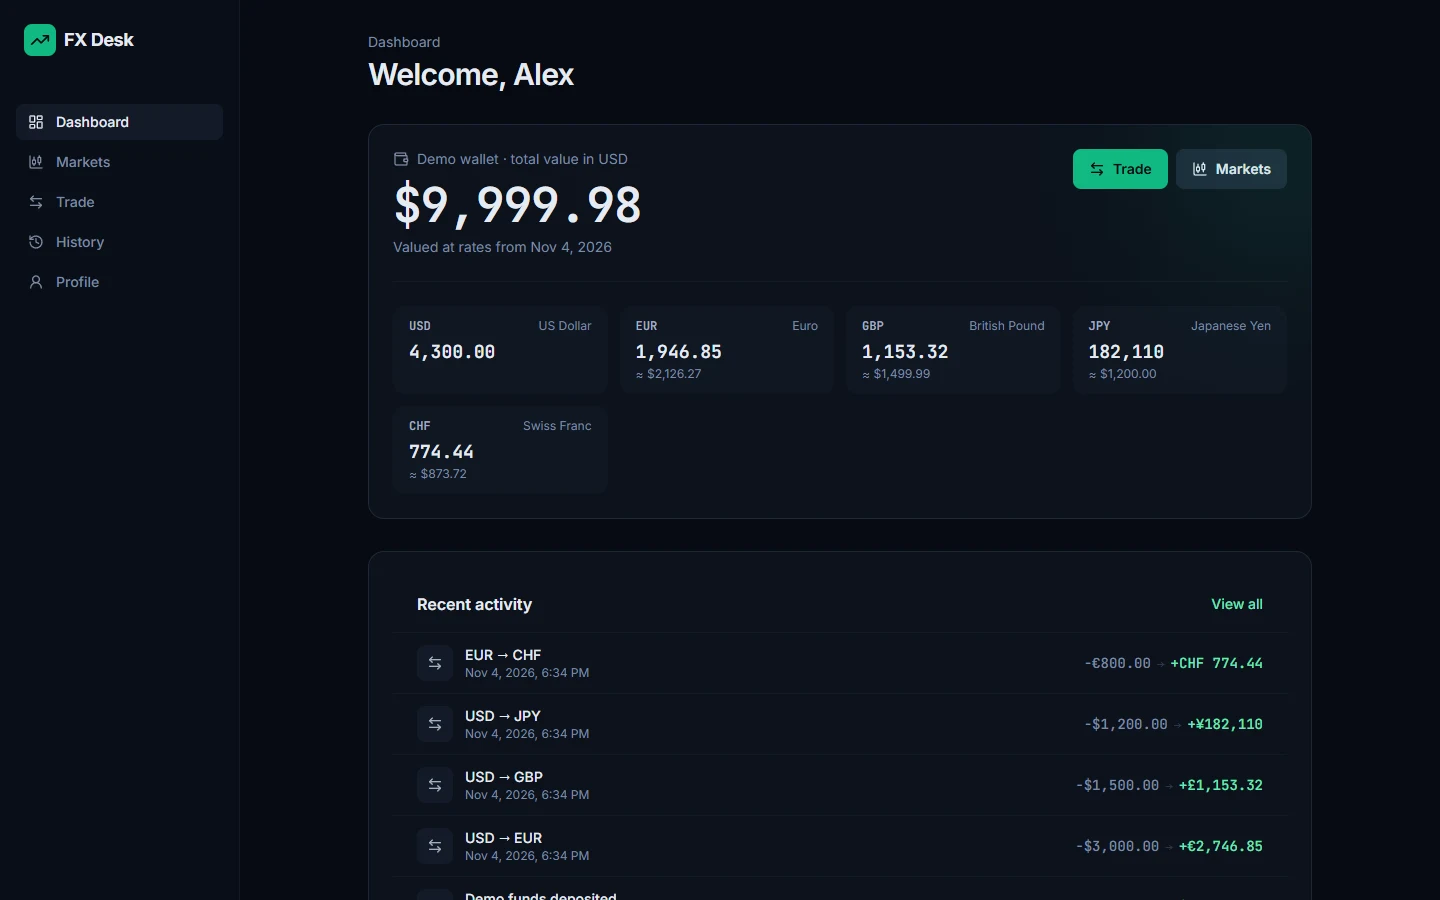
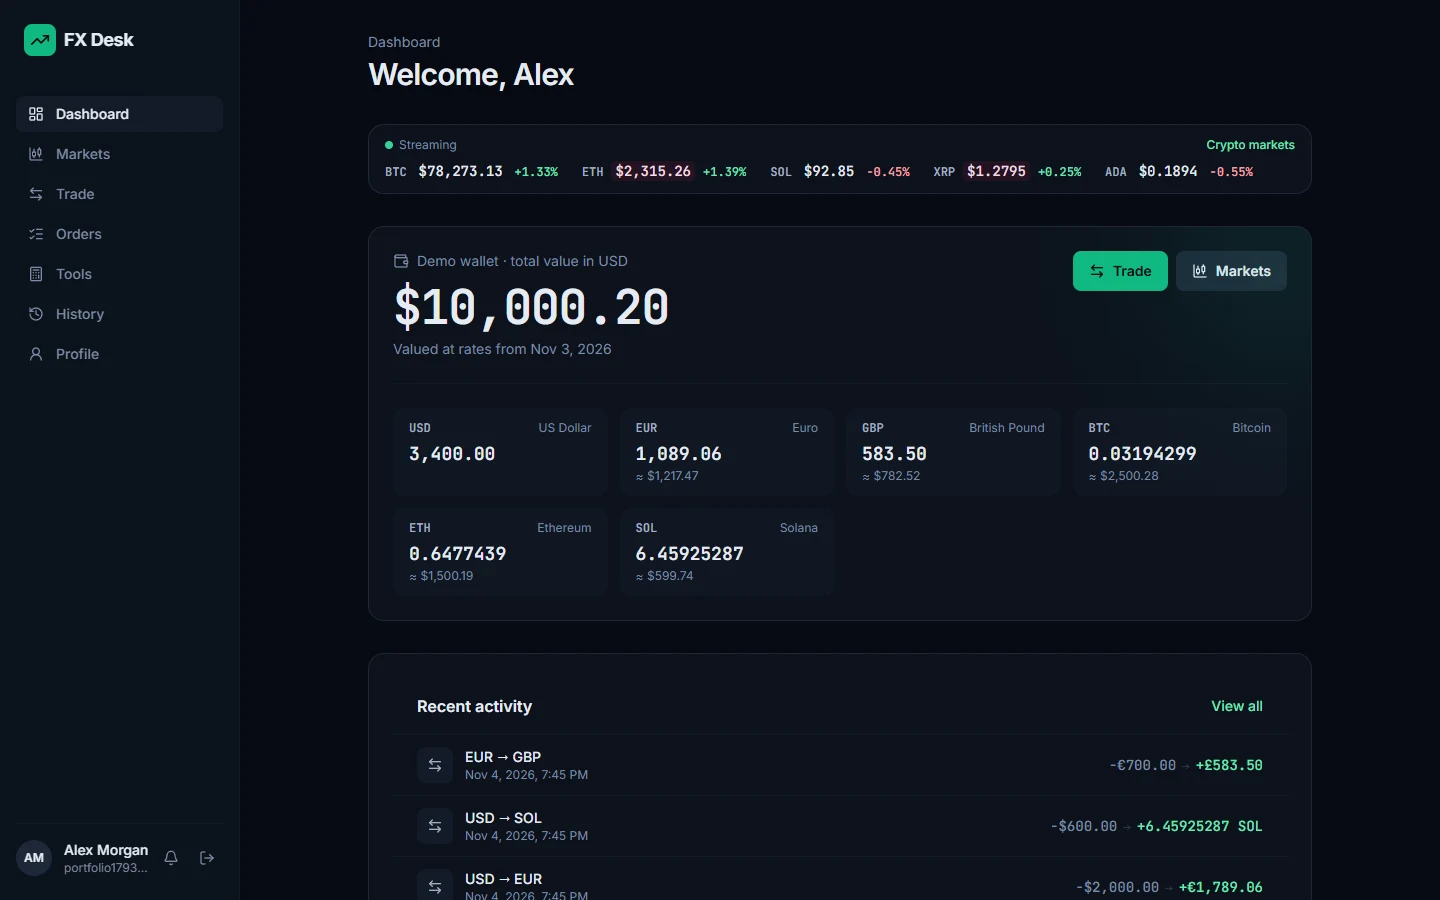
Update FX Desk showcase: crypto, live prices, orders, alerts, tools
New screenshots (dashboard with live ticker, crypto markets, trade,
orders and alerts, forex toolkit), updated stats (51 tests, 21
endpoints, 13 assets) and engineering highlights; WebSocket, Flyway
and scheduling added to skills.

diff --git a/index.html b/index.html
@@ -11,7 +11,7 @@
     <meta property="og:title" content="Vedansh Trivedi · Java Full Stack Developer" />
     <meta
       property="og:description"
-      content="Spring Boot · React · REST APIs · PostgreSQL · Spring Security · JWT. See FX Desk, a full stack forex trading demo."
+      content="Spring Boot · React · REST APIs · PostgreSQL · Spring Security · JWT. See FX Desk, a full stack forex and crypto trading demo with live prices."
     />
     <meta property="og:type" content="website" />
     <meta property="og:url" content="https://vedansh1233.github.io/" />
@@ -71,7 +71,8 @@
         </p>
         <p class="lede">
           I build secure, well-tested web applications with <strong>Java, Spring Boot and React</strong>: REST APIs,
-          JWT authentication, relational data with JPA/Hibernate, and clean, responsive frontends. Computer Science
+          JWT authentication, real-time data over WebSocket, relational data with JPA/Hibernate, and clean, responsive
+          frontends. Computer Science
           graduate (BCA, MCA) based in Noida, India.
         </p>
         <div class="actions">
@@ -100,7 +101,7 @@
       <div class="marquee" aria-hidden="true">
         <div class="marquee-row">
           <div class="marquee-track">
-            <span>Java</span><b>✦</b><span>Spring Boot</span><b>✦</b><span>Spring Security</span><b>✦</b><span>JWT</span><b>✦</b><span>REST APIs</span><b>✦</b><span>Hibernate</span><b>✦</b><span>PostgreSQL</span><b>✦</b><span>MySQL</span><b>✦</b>
+            <span>Java</span><b>✦</b><span>Spring Boot</span><b>✦</b><span>Spring Security</span><b>✦</b><span>JWT</span><b>✦</b><span>REST APIs</span><b>✦</b><span>Hibernate</span><b>✦</b><span>PostgreSQL</span><b>✦</b><span>WebSocket</span><b>✦</b><span>Flyway</span><b>✦</b>
           </div>
         </div>
         <div class="marquee-row reverse">
@@ -114,17 +115,18 @@
       <section class="section wrap" id="projects" aria-labelledby="projects-h">
         <div class="section-head">
           <p class="eyebrow">Featured project</p>
-          <h2 id="projects-h">FX Desk: a full stack forex trading platform</h2>
+          <h2 id="projects-h">FX Desk: a full stack forex and crypto trading platform</h2>
           <p class="section-sub">
-            A paper-trading app: sign up, receive a virtual $10,000 wallet, follow European Central Bank exchange rates
-            and convert between 8 major currencies. Built end to end, from database schema to UI.
+            A paper-trading app: sign up, get a virtual $10,000 wallet, and trade 8 major currencies and 5 cryptocurrencies
+            at live prices. Prices stream over WebSocket, limit orders fill automatically, and price alerts notify you.
+            Built end to end, from database migrations to UI.
           </p>
         </div>
 
         <dl class="stats">
-          <div><dt>Automated tests</dt><dd data-count="31">31</dd></div>
-          <div><dt>REST endpoints</dt><dd data-count="10">10</dd></div>
-          <div><dt>Currencies traded</dt><dd data-count="8">8</dd></div>
+          <div><dt>Automated tests</dt><dd data-count="51">51</dd></div>
+          <div><dt>REST endpoints + WebSocket</dt><dd data-count="21">21</dd></div>
+          <div><dt>Assets traded</dt><dd data-count="13">13</dd></div>
           <div><dt>Money as <code>double</code></dt><dd data-count="0">0</dd></div>
         </dl>
 
@@ -134,21 +136,21 @@
             src="assets/dashboard.webp"
             width="1440"
             height="900"
-            alt="FX Desk dashboard: total wallet value of $9,999.98, holdings in USD, EUR, GBP, JPY and CHF, and a list of recent conversions"
+            alt="FX Desk dashboard: a live crypto price ticker, a wallet worth $10,000.20 holding USD, EUR, GBP, BTC, ETH and SOL, and recent conversions"
           />
-          <figcaption>Portfolio dashboard: multi-currency holdings valued at the latest rates.</figcaption>
+          <figcaption>Dashboard: live crypto ticker over WebSocket and a multi-asset wallet valued in real time.</figcaption>
         </figure>
 
         <div class="shots-row">
           <figure class="shot">
             <img
-              src="assets/markets.webp"
+              src="assets/crypto.webp"
               width="1440"
               height="900"
               loading="lazy"
-              alt="FX Desk markets page: a one-month EUR/USD line chart and a table of EUR exchange rates"
+              alt="FX Desk crypto markets: a three-month Bitcoin price chart and live prices for BTC, ETH, SOL and XRP with 24-hour change"
             />
-            <figcaption>Markets: rates and a hand-built SVG price chart.</figcaption>
+            <figcaption>Crypto markets: live Coinbase prices and a hand-built SVG chart.</figcaption>
           </figure>
           <figure class="shot">
             <img
@@ -156,9 +158,29 @@
               width="1440"
               height="900"
               loading="lazy"
-              alt="FX Desk trade page: a form converting US dollars to euros with a live quote and current balances"
+              alt="FX Desk trade page: buying Bitcoin with 1,000 US dollars, with a live quote, balances, and an open limit order"
             />
-            <figcaption>Trade: live quote, balance checks, instant conversion.</figcaption>
+            <figcaption>Trade: market or limit orders on any pair, to 8 decimals.</figcaption>
+          </figure>
+          <figure class="shot">
+            <img
+              src="assets/orders.webp"
+              width="1440"
+              height="900"
+              loading="lazy"
+              alt="FX Desk orders page: an open limit order with its distance to target, and two Bitcoin price alerts"
+            />
+            <figcaption>Orders and alerts: filled automatically by a background job.</figcaption>
+          </figure>
+          <figure class="shot">
+            <img
+              src="assets/tools.webp"
+              width="1440"
+              height="900"
+              loading="lazy"
+              alt="FX Desk forex toolkit: a pip value calculator showing $10 per pip and a cross-rate table of 8 currencies"
+            />
+            <figcaption>Forex toolkit: calculators, cross rates, strength and correlation.</figcaption>
           </figure>
         </div>
 
@@ -167,20 +189,22 @@
             <h3>Backend · Spring Boot</h3>
             <ul class="ticks">
               <li>REST API with Java 21 and Spring Boot 3.5, documented with OpenAPI / Swagger UI</li>
+              <li>Real-time prices pushed over a <strong>WebSocket</strong>; live Coinbase and ECB data fetched in parallel on virtual threads, with caching and a labelled fallback when a source is down</li>
+              <li><strong>Limit orders and price alerts</strong> matched by scheduled jobs; row locks and conditional updates so a fill and a cancel can never both win</li>
+              <li>Safe money handling: <code>BigDecimal</code> with per-asset precision (8 decimals for crypto), rounding down so no money is created, one ledger service for every balance change</li>
               <li>Stateless auth with Spring Security and JWT; BCrypt passwords; consistent JSON error responses</li>
-              <li>Safe money handling: <code>BigDecimal</code>, a pessimistic row lock so concurrent trades can't overspend, rounding down so no money is created</li>
-              <li>Live ECB rates with caching and a graceful fallback when the rates provider is down</li>
-              <li>PostgreSQL with JPA/Hibernate; immutable transaction ledger with pagination</li>
-              <li>31 automated tests: MockMvc integration tests on H2 plus unit tests for the cache logic</li>
+              <li>PostgreSQL with JPA/Hibernate and <strong>Flyway</strong> migrations</li>
+              <li>51 automated tests: MockMvc integration tests, a real WebSocket test, and unit tests for the fallback logic</li>
             </ul>
           </article>
           <article class="card">
             <h3>Frontend · React</h3>
             <ul class="ticks">
               <li>React 19 + TypeScript (strict) with Vite and Tailwind CSS</li>
-              <li>Server state with TanStack Query; typed API client that mirrors the backend DTOs</li>
-              <li>Interactive SVG chart built from scratch: crosshair tooltip, keyboard navigation, screen-reader table</li>
-              <li>Protected routes, session restore and automatic logout on an expired token</li>
+              <li>One shared WebSocket feeding the TanStack Query cache, with reconnect backoff and polling fallback; prices flash as they tick</li>
+              <li>Interactive SVG charts built from scratch: crosshair tooltip, keyboard navigation, screen-reader table</li>
+              <li>Forex toolkit: pip value, position size and profit/loss calculators, cross-rate matrix, currency strength and correlation</li>
+              <li>Notification bell and toasts for triggered alerts; protected routes and session restore</li>
               <li>Field-level validation errors from the API; responsive layout down to phone width</li>
             </ul>
           </article>
@@ -204,11 +228,12 @@
             <ul class="tags">
               <li>Java</li><li>Spring Boot</li><li>Spring Security</li><li>JWT</li><li>REST APIs</li>
               <li>Jakarta Persistence (JPA)</li><li>Hibernate</li><li>JDBC</li><li>Bean Validation</li>
+              <li>WebSocket</li><li>Scheduled jobs</li><li>Virtual threads</li><li>Concurrency &amp; locking</li>
             </ul>
           </div>
           <div class="card">
             <h3>Databases</h3>
-            <ul class="tags"><li>PostgreSQL</li><li>MySQL</li><li>SQL</li><li>H2</li></ul>
+            <ul class="tags"><li>PostgreSQL</li><li>MySQL</li><li>SQL</li><li>H2</li><li>Flyway migrations</li></ul>
           </div>
           <div class="card">
             <h3>Frontend</h3>
